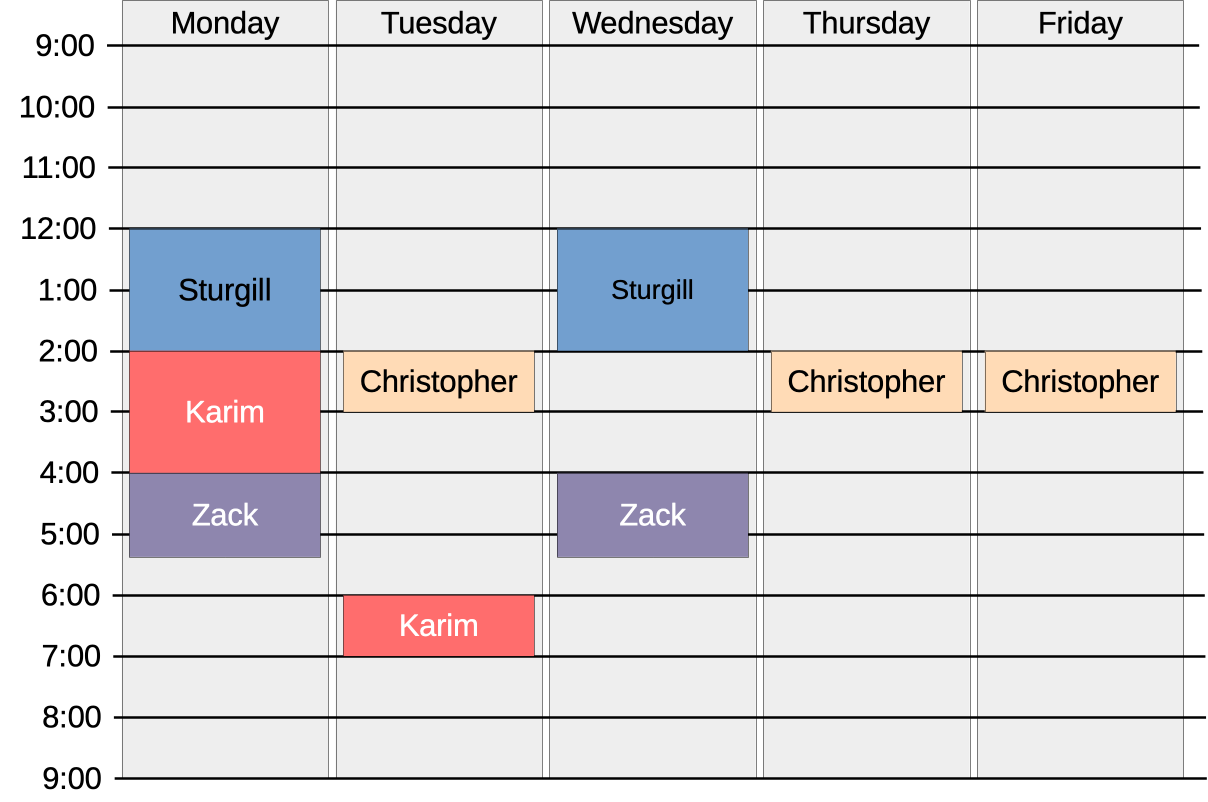
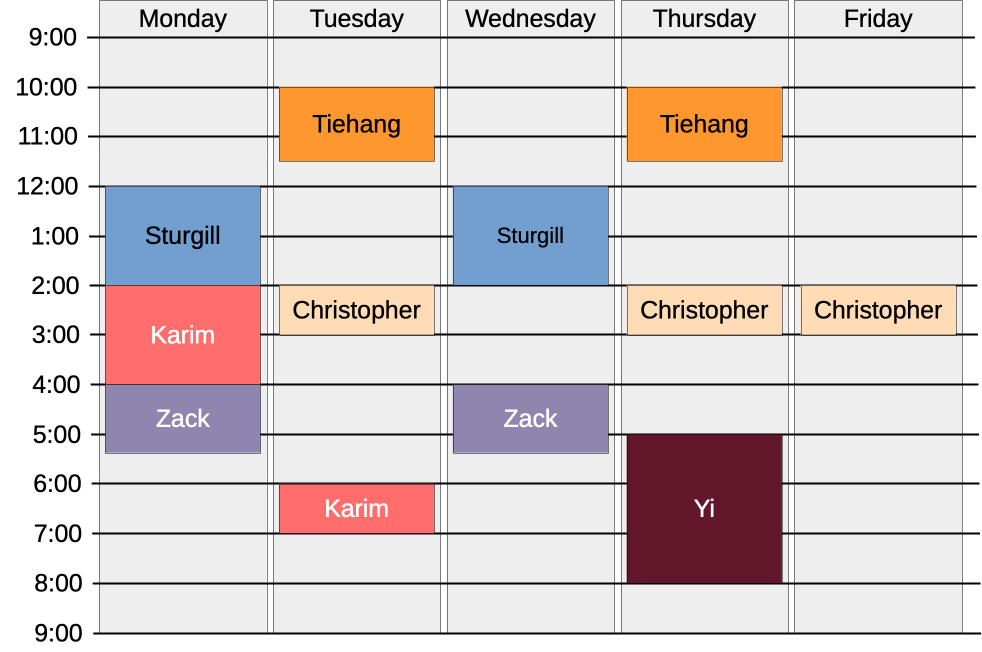
Updated office hours

diff --git a/OfficeHours.html b/OfficeHours.html
@@ -43,7 +43,8 @@ If mdh.csc.ncsu.edu isn't working, you should be able to reach me at:
 <h2>Tiehang Zhang, Teaching Assistant</h2>
 
 <table>
-<tr><td>Office Hours TBD</td><td>Online via MDH</td></tr>
+<tr><td>Tue  10:00 - 11:30 am</td><td>Online via MDH</td></tr>
+<tr><td>Thu  10:00 - 11:30 pm</td><td>Online via MDH</td></tr>
 </table>
 
 <h2>Karim Hussain, Teaching Assistant</h2>
@@ -56,7 +57,7 @@ If mdh.csc.ncsu.edu isn't working, you should be able to reach me at:
 <h2>Yi Hu, Teaching Assistant</h2>
 
 <table>
-<tr><td>Office Hours TBD</td><td>Online via MDH</td></tr>
+<tr><td>Thu  5:00 - 8:00 pm</td><td>Online via MDH</td></tr>
 </table>
 
 <h2>Zack Brooks, Teaching Assistant</h2>
